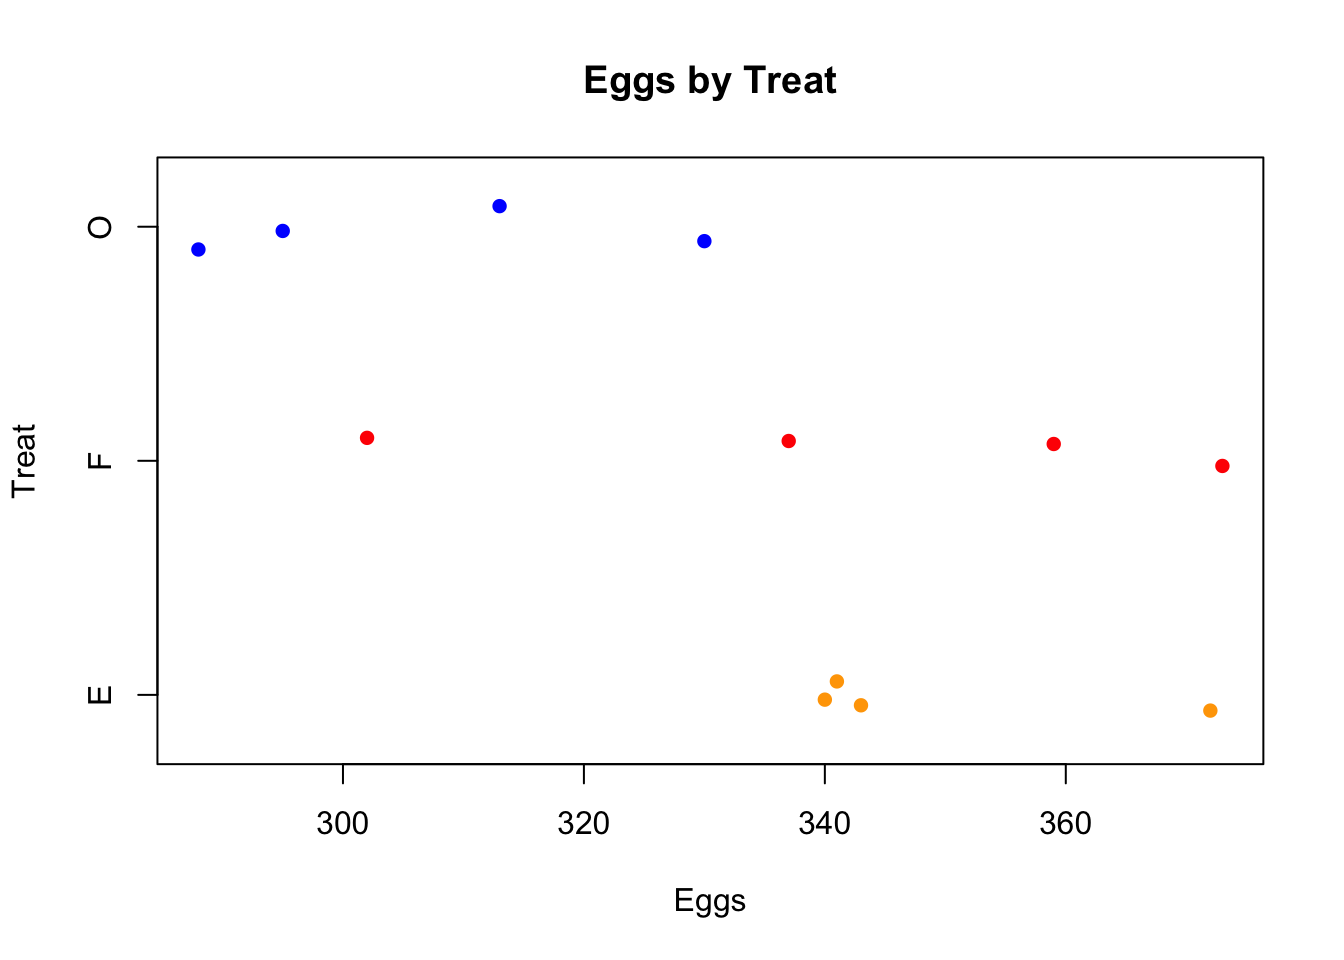
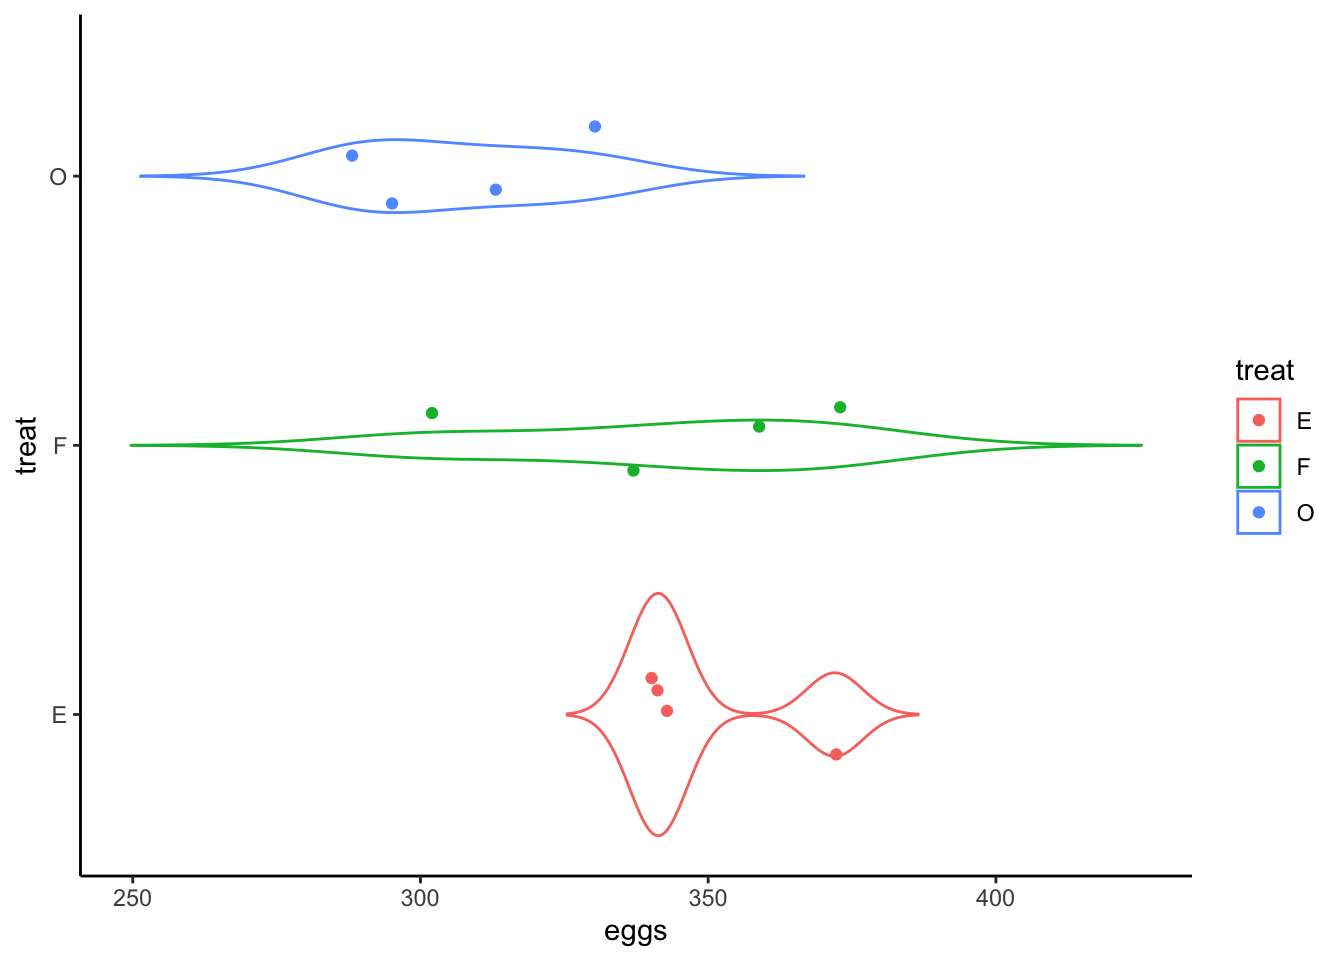
Updating
Removing base R and adding description

diff --git a/docs/lme.html b/docs/lme.html
@@ -13,7 +13,7 @@
 
 <title>Mixed-Effect Models</title>
 
-<script src="site_libs/header-attrs-2.13/header-attrs.js"></script>
+<script src="site_libs/header-attrs-2.14/header-attrs.js"></script>
 <script src="site_libs/jquery-3.6.0/jquery-3.6.0.min.js"></script>
 <meta name="viewport" content="width=device-width, initial-scale=1" />
 <link href="site_libs/bootstrap-3.3.5/css/readable.min.css" rel="stylesheet" />
@@ -389,61 +389,45 @@ div.tocify {
 
 <div id="multilevel-modeling" class="section level3">
 <h3>multilevel modeling</h3>
-<p>The <code>eggprod</code> data in the faraway package contains data on egg production. <span class="citation">(Faraway 2016)</span> Six pullets (young hens) were placed into each of 12 pens. Four blocks were formed from groups of 3 pens based on location. Three treatments were applied. The number of eggs produced was recorded. Fit a model for the number of eggs produced with <code>treat</code> as a fixed effect and <code>block</code> as a random effect. <span class="citation">(Faraway 2006)</span> Does <code>treat</code> appear to affect the number of eggs, and if so, which treatment seems superior?</p>
+<p>The <code>eggprod</code> data in the faraway package contains data on
+egg production. <span class="citation">(Faraway 2016)</span> Six pullets
+(young hens) were placed into each of 12 pens. Four blocks were formed
+from groups of 3 pens based on location. Three treatments were applied.
+The number of eggs produced was recorded. Start by visualizing the
+distribution of eggs produced split by blocks and treatment.</p>
 <pre class="r"><code>library(faraway)
 data(&quot;eggprod&quot;)
 
-# Base R
-## Creating lists for `stripchart()`
-treat &lt;- list(&quot;E&quot;=eggprod[eggprod$treat==&quot;E&quot;,&quot;eggs&quot;], 
-              &quot;F&quot;=eggprod[eggprod$treat==&quot;F&quot;,&quot;eggs&quot;],
-              &quot;O&quot;=eggprod[eggprod$treat==&quot;O&quot;,&quot;eggs&quot;])
-block &lt;- list(&quot;1&quot;=eggprod[eggprod$block==&quot;1&quot;,&quot;eggs&quot;], 
-              &quot;2&quot;=eggprod[eggprod$block==&quot;2&quot;,&quot;eggs&quot;],
-              &quot;3&quot;=eggprod[eggprod$block==&quot;3&quot;,&quot;eggs&quot;],
-              &quot;4&quot;=eggprod[eggprod$block==&quot;4&quot;,&quot;eggs&quot;])
-
-## Plotting eggs ~ treat
-stripchart(treat,
-           main=&quot;Eggs by Treat&quot;,
-           xlab=&quot;Eggs&quot;,
-           ylab=&quot;Treat&quot;,
-           method=&quot;jitter&quot;,
-           col=c(&quot;orange&quot;,&quot;red&quot;,&quot;blue&quot;),
-           pch=16
-)</code></pre>
-<p><img src="lme_files/figure-html/unnamed-chunk-1-1.png" width="672" /></p>
-<pre class="r"><code>## Plotting eggs ~ block
-stripchart(block,
-           main=&quot;Eggs by Block&quot;,
-           xlab=&quot;Eggs&quot;,
-           ylab=&quot;Block&quot;,
-           method=&quot;jitter&quot;,
-           col=c(&quot;orange&quot;,&quot;red&quot;,&quot;blue&quot;,&quot;green&quot;),
-           pch=16
-)</code></pre>
-<p><img src="lme_files/figure-html/unnamed-chunk-1-2.png" width="672" /></p>
-<pre class="r"><code># ggplot2
 library(ggplot2)
-
-## Plotting eggs ~ treat
+# Plotting eggs ~ treat
 ggplot(eggprod, aes(x=treat, y=eggs, color = treat)) + # Plotting eggs~treat, color by treat
   geom_violin(trim = FALSE) + # Adding violin to show probability density at different values since sample size is small
   geom_jitter(position=position_jitter(0.2)) + # Creating a jitter plot,  staggering groups
   coord_flip() + # Flipping x and y coordinates to mimic Base R plotting
   theme_classic() # Using classic theme</code></pre>
-<p><img src="lme_files/figure-html/unnamed-chunk-1-3.png" width="672" /></p>
-<pre class="r"><code>## Plotting eggs ~ block
+<p><img src="lme_files/figure-html/unnamed-chunk-1-1.png" width="672" /></p>
+<pre class="r"><code># Plotting eggs ~ block
 ggplot(eggprod, aes(x=block, y=eggs, color = block)) + # Plotting eggs~treat, color by treat
   geom_violin(trim = FALSE) + # Adding violin to show probability density at different values since sample size is small
   geom_jitter(position=position_jitter(0.2)) + # Creating a jitter plot,  staggering groups
   coord_flip() + # Flipping x and y coordinates to mimic Base R plotting
   theme_classic() # Using classic theme</code></pre>
-<p><img src="lme_files/figure-html/unnamed-chunk-1-4.png" width="672" /></p>
+<p><img src="lme_files/figure-html/unnamed-chunk-1-2.png" width="672" /></p>
+<p>This shows visually that treatment O may have produced fewer eggs
+than threatmeent F or E whose distributions are more similar and closer
+to one another. The distributions of eggs produced by each block seem to
+overlap and are very similar to one another.</p>
+<p>Now, fit a model for the number of eggs produced with
+<code>treat</code> as a fixed effect and <code>block</code> as a random
+effect. <span class="citation">(Faraway 2006)</span> Does
+<code>treat</code> appear to affect the number of eggs, and if so, which
+treatment seems superior?</p>
 </div>
 <div id="longitudinal-modeling" class="section level3">
 <h3>longitudinal modeling</h3>
-<p>The <code>phosphate</code> data in the HSAUR3 package contains plasma inorganic phosphate levels from 33 subjects (20 controls, 13 obese). <span class="citation">(Hothorn and Everitt 2022)</span></p>
+<p>The <code>phosphate</code> data in the HSAUR3 package contains plasma
+inorganic phosphate levels from 33 subjects (20 controls, 13 obese).
+<span class="citation">(Hothorn and Everitt 2022)</span></p>
 <pre class="r"><code>library(HSAUR3)
 data(&quot;phosphate&quot;)
 head(phosphate)</code></pre>
@@ -454,10 +438,13 @@ head(phosphate)</code></pre>
 ## 4 control 3.6  3.0 2.2  2.8 2.9 3.9 3.8 4.0
 ## 5 control 4.1  3.8 2.1  3.0 3.6 3.4 3.6 3.7
 ## 6 control 3.8  2.2 2.0  2.6 3.8 3.6 3.0 3.5</code></pre>
-<p>Reshaping the data facilitates data visualization. The <code>pivot_longer()</code> function from the tidyr package makes quick work of this. <span class="citation">(Wickham and Girlich 2022)</span> We add a subject <code>id</code> to identify subjects after reshaping the data into a “long” format.</p>
-<pre class="r"><code>library(tidyr)</code></pre>
-<pre><code>## Warning: package &#39;tidyr&#39; was built under R version 4.1.2</code></pre>
-<pre class="r"><code>phosphate$id &lt;- 1:nrow(phosphate)
+<p>Reshaping the data facilitates data visualization. The
+<code>pivot_longer()</code> function from the tidyr package makes quick
+work of this. <span class="citation">(Wickham and Girlich 2022)</span>
+We add a subject <code>id</code> to identify subjects after reshaping
+the data into a “long” format.</p>
+<pre class="r"><code>library(tidyr)
+phosphate$id &lt;- 1:nrow(phosphate)
 phosphateL &lt;- pivot_longer(phosphate, cols = t0:t5, 
                            names_to = &quot;time&quot;, 
                            names_prefix = &quot;t&quot;,
@@ -477,29 +464,39 @@ head(phosphateL, n = 10)</code></pre>
 ##  8 control     1   5     4.4
 ##  9 control     2   0     3.7
 ## 10 control     2   0.5   2.6</code></pre>
-<p>There appears to be a great deal of variability between the subjects.</p>
+<p>There appears to be a great deal of variability between the
+subjects.</p>
 <pre class="r"><code>library(ggplot2)
 ggplot(phosphateL) +
   aes(x = time, y = level, group = id) +
   geom_line() +
   facet_wrap(~group)</code></pre>
 <p><img src="lme_files/figure-html/unnamed-chunk-4-1.png" width="672" /></p>
-<p>What might be a sensible linear mixed effect model to quantify trend in time, effect of obesity, and variation between subjects?</p>
+<p>What might be a sensible linear mixed effect model to quantify trend
+in time, effect of obesity, and variation between subjects?</p>
 </div>
 <div id="references" class="section level3 unnumbered">
 <h3 class="unnumbered">References</h3>
 <div id="refs" class="references csl-bib-body hanging-indent">
 <div id="ref-faraway_book" class="csl-entry">
-Faraway, Julian. 2006. <em>Extending the Linear Model with <span>R</span></em>. CRC press. <a href="https://julianfaraway.github.io/faraway/ELM/">https://julianfaraway.github.io/faraway/ELM/</a>.
+Faraway, Julian. 2006. <em>Extending the Linear Model with
+<span>R</span></em>. CRC press. <a
+href="https://julianfaraway.github.io/faraway/ELM/">https://julianfaraway.github.io/faraway/ELM/</a>.
 </div>
 <div id="ref-faraway" class="csl-entry">
-———. 2016. <em>Faraway: Functions and Datasets for Books by Julian Faraway</em>. <a href="https://CRAN.R-project.org/package=faraway">https://CRAN.R-project.org/package=faraway</a>.
+———. 2016. <em>Faraway: Functions and Datasets for Books by Julian
+Faraway</em>. <a
+href="https://CRAN.R-project.org/package=faraway">https://CRAN.R-project.org/package=faraway</a>.
 </div>
 <div id="ref-hsaur3" class="csl-entry">
-Hothorn, Torsten, and Brian S. Everitt. 2022. <em>Hsaur3: A Handbook of Statistical Analyses Using r (3rd Edition)</em>. <a href="https://CRAN.R-project.org/package=HSAUR3">https://CRAN.R-project.org/package=HSAUR3</a>.
+Hothorn, Torsten, and Brian S. Everitt. 2022. <em>Hsaur3: A Handbook of
+Statistical Analyses Using r (3rd Edition)</em>. <a
+href="https://CRAN.R-project.org/package=HSAUR3">https://CRAN.R-project.org/package=HSAUR3</a>.
 </div>
 <div id="ref-tidyr" class="csl-entry">
-Wickham, Hadley, and Maximilian Girlich. 2022. <em>Tidyr: Tidy Messy Data</em>. <a href="https://CRAN.R-project.org/package=tidyr">https://CRAN.R-project.org/package=tidyr</a>.
+Wickham, Hadley, and Maximilian Girlich. 2022. <em>Tidyr: Tidy Messy
+Data</em>. <a
+href="https://CRAN.R-project.org/package=tidyr">https://CRAN.R-project.org/package=tidyr</a>.
 </div>
 </div>
 </div>

diff --git a/docs/site_libs/header-attrs-2.14/header-attrs.js b/docs/site_libs/header-attrs-2.14/header-attrs.js
@@ -1,0 +1,12 @@
+// Pandoc 2.9 adds attributes on both header and div. We remove the former (to
+// be compatible with the behavior of Pandoc < 2.8).
+document.addEventListener('DOMContentLoaded', function(e) {
+  var hs = document.querySelectorAll("div.section[class*='level'] > :first-child");
+  var i, h, a;
+  for (i = 0; i < hs.length; i++) {
+    h = hs[i];
+    if (!/^h[1-6]$/i.test(h.tagName)) continue;  // it should be a header h1-h6
+    a = h.attributes;
+    while (a.length > 0) h.removeAttribute(a[0].name);
+  }
+});

diff --git a/docs/site_libs/navigation-1.1/codefolding.js b/docs/site_libs/navigation-1.1/codefolding.js
@@ -19,6 +19,8 @@ window.initializeCodeFolding = function(show) {
   // select all R code blocks
   var rCodeBlocks = $('pre.r, pre.python, pre.bash, pre.sql, pre.cpp, pre.stan, pre.julia, pre.foldable');
   rCodeBlocks.each(function() {
+    // skip if the block has fold-none class
+    if ($(this).hasClass('fold-none')) return;
 
     // create a collapsable div to wrap the code in
     var div = $('<div class="collapse r-code-collapse"></div>');

diff --git a/docs/site_libs/navigation-1.1/codefolding-lua.css b/docs/site_libs/navigation-1.1/codefolding-lua.css
@@ -1,0 +1,9 @@
+detaiks.chunk-details > summary.chunk-summary {
+  text-align: right;
+}
+details.chunk-details[open] > summary.chunk-summary::after {
+  content: "Hide";
+}
+details.chunk-details[open] > summary.chunk-summary > span.chunk-summary-text {
+  display: none;
+}
